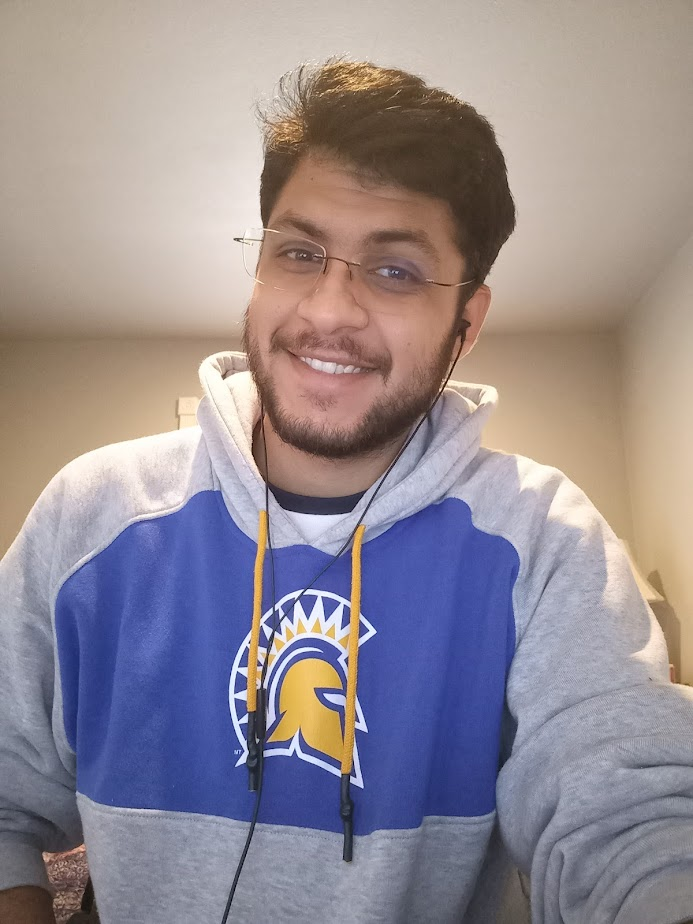
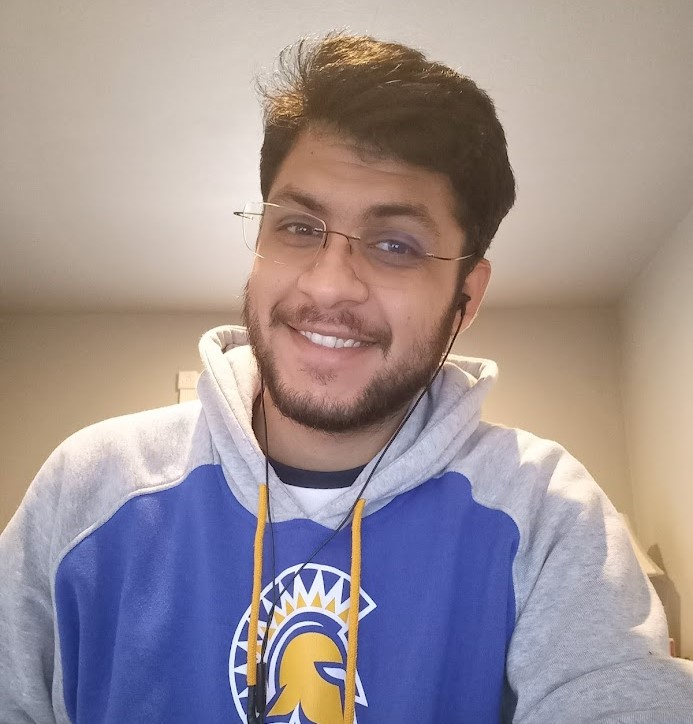
DP change

diff --git a/index.html b/index.html
@@ -70,7 +70,7 @@
         <div class="text col-sm-6" style="margin-top: 140px;">Hi <span class="wave"><img src="assets/images/Hand.gif" width="35px"></span>&nbsp;, I'm <span class="header">Priyank Thakkar</span>
             <div class="center">
                 <div>
-                    <img src="assets/images/dp_male.svg" alt="" class="rounded-circle" height="200" width="200">
+                    <img src="assets/images/Pri1.png" alt="" class="rounded-circle" height="200" width="200">
                 </div>
                 <br/>
                 <span style="display: inline;">I am into <span class="animated-text"
